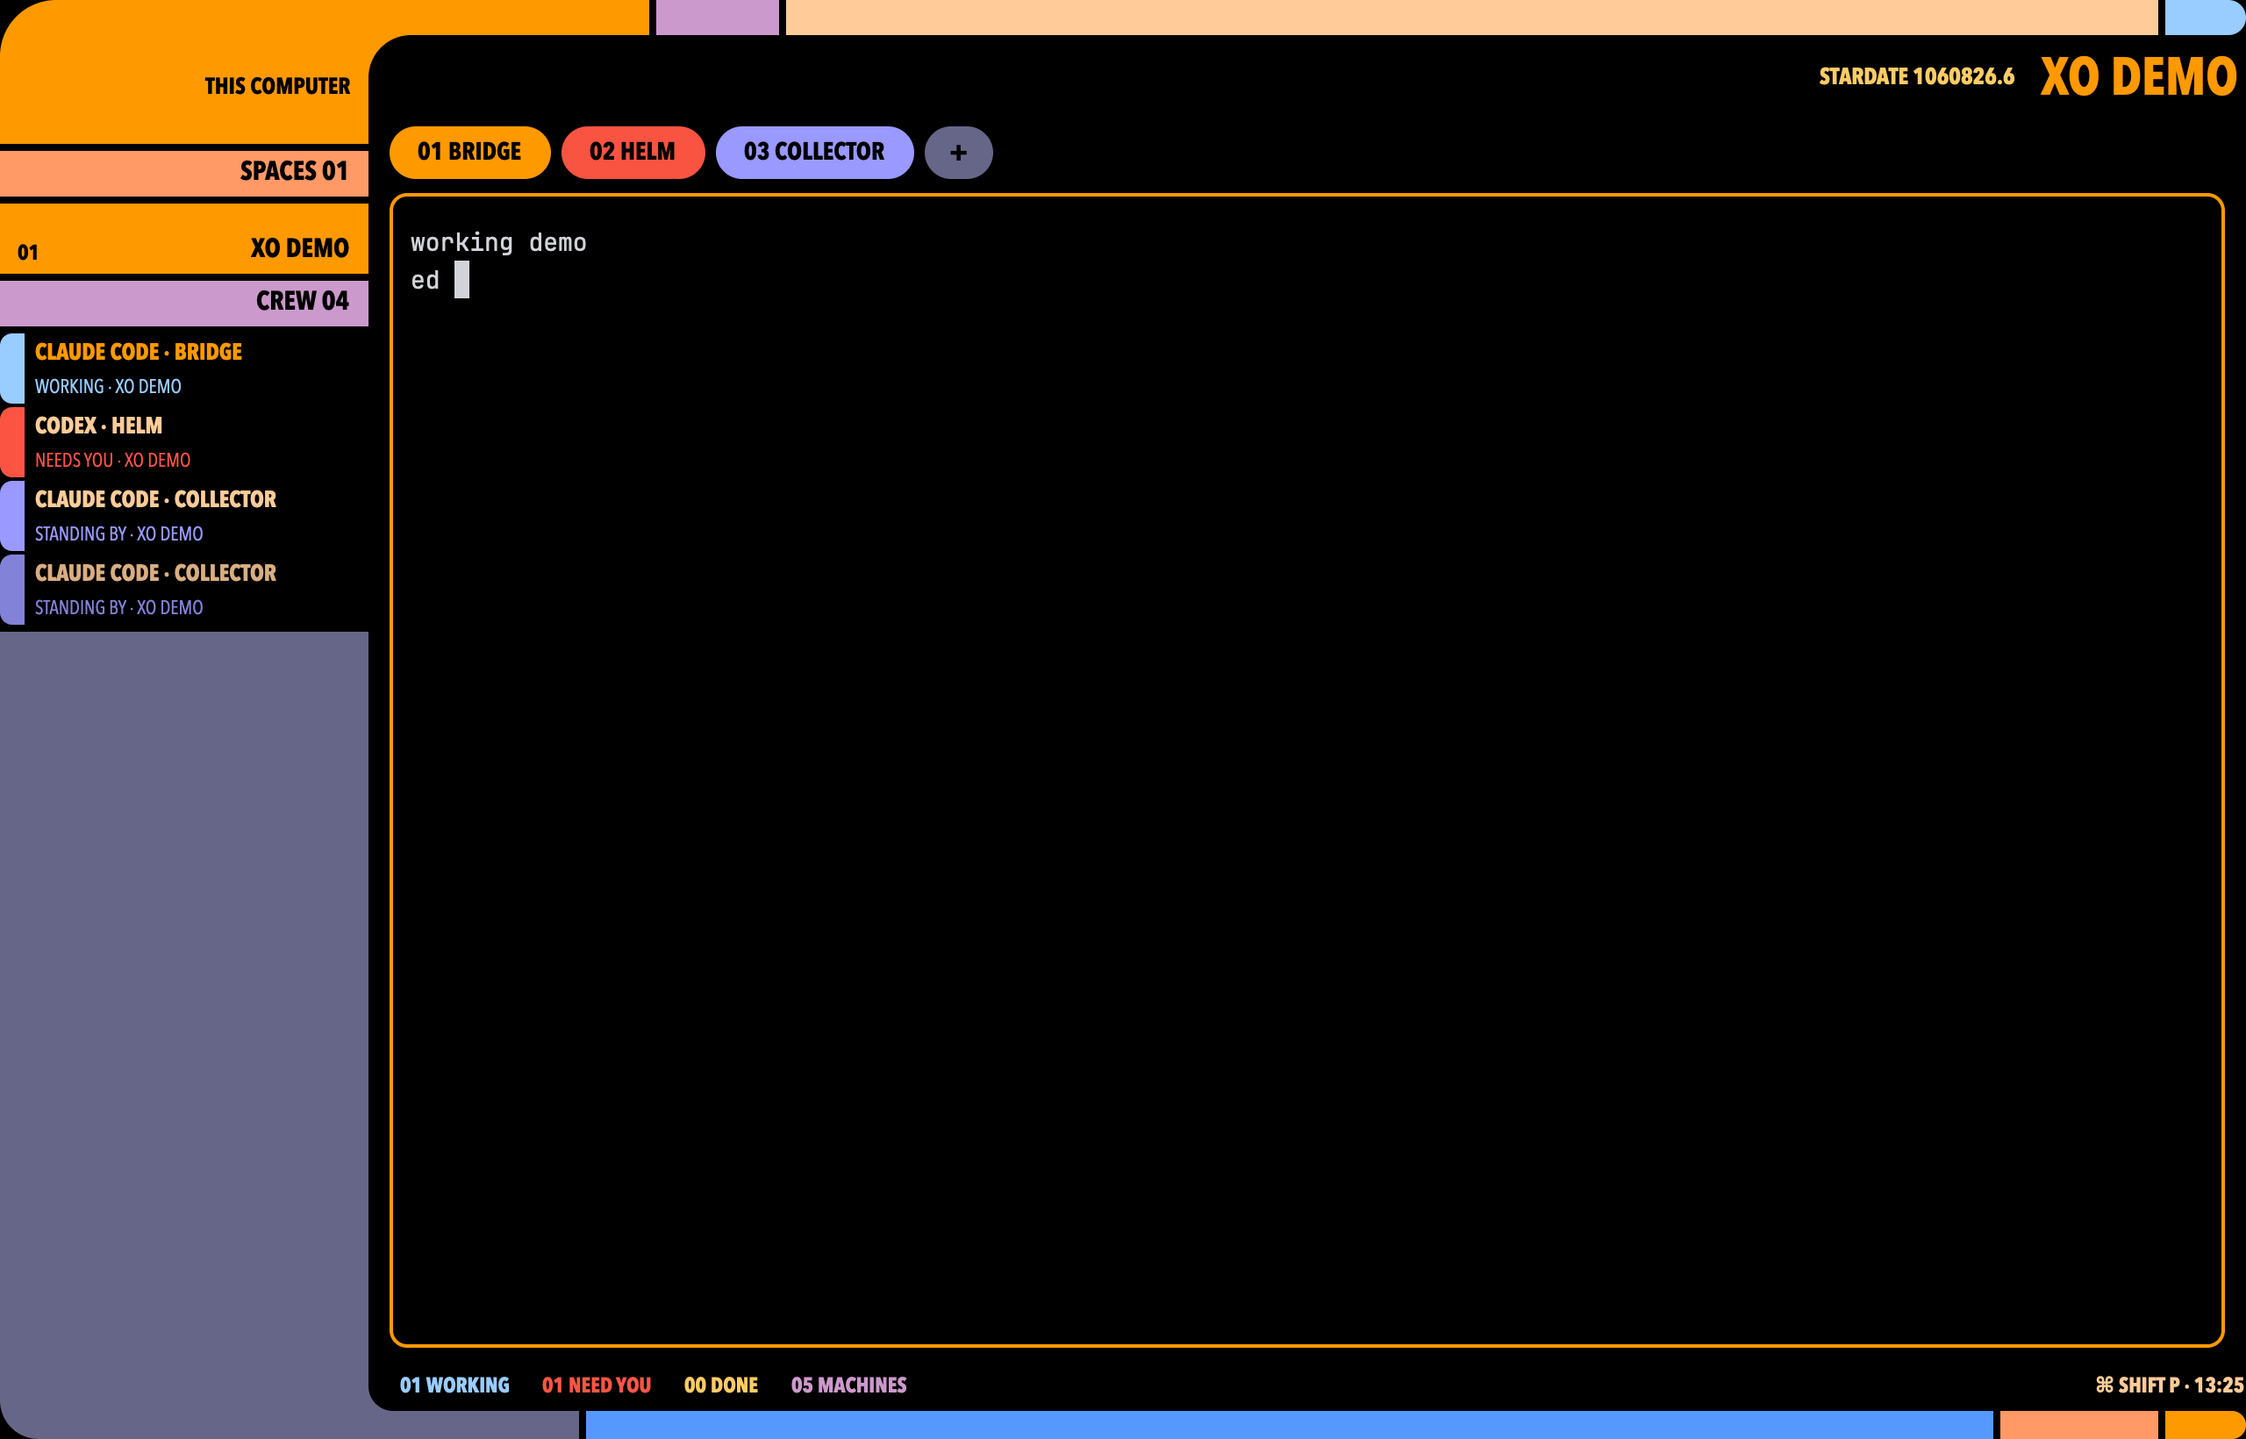
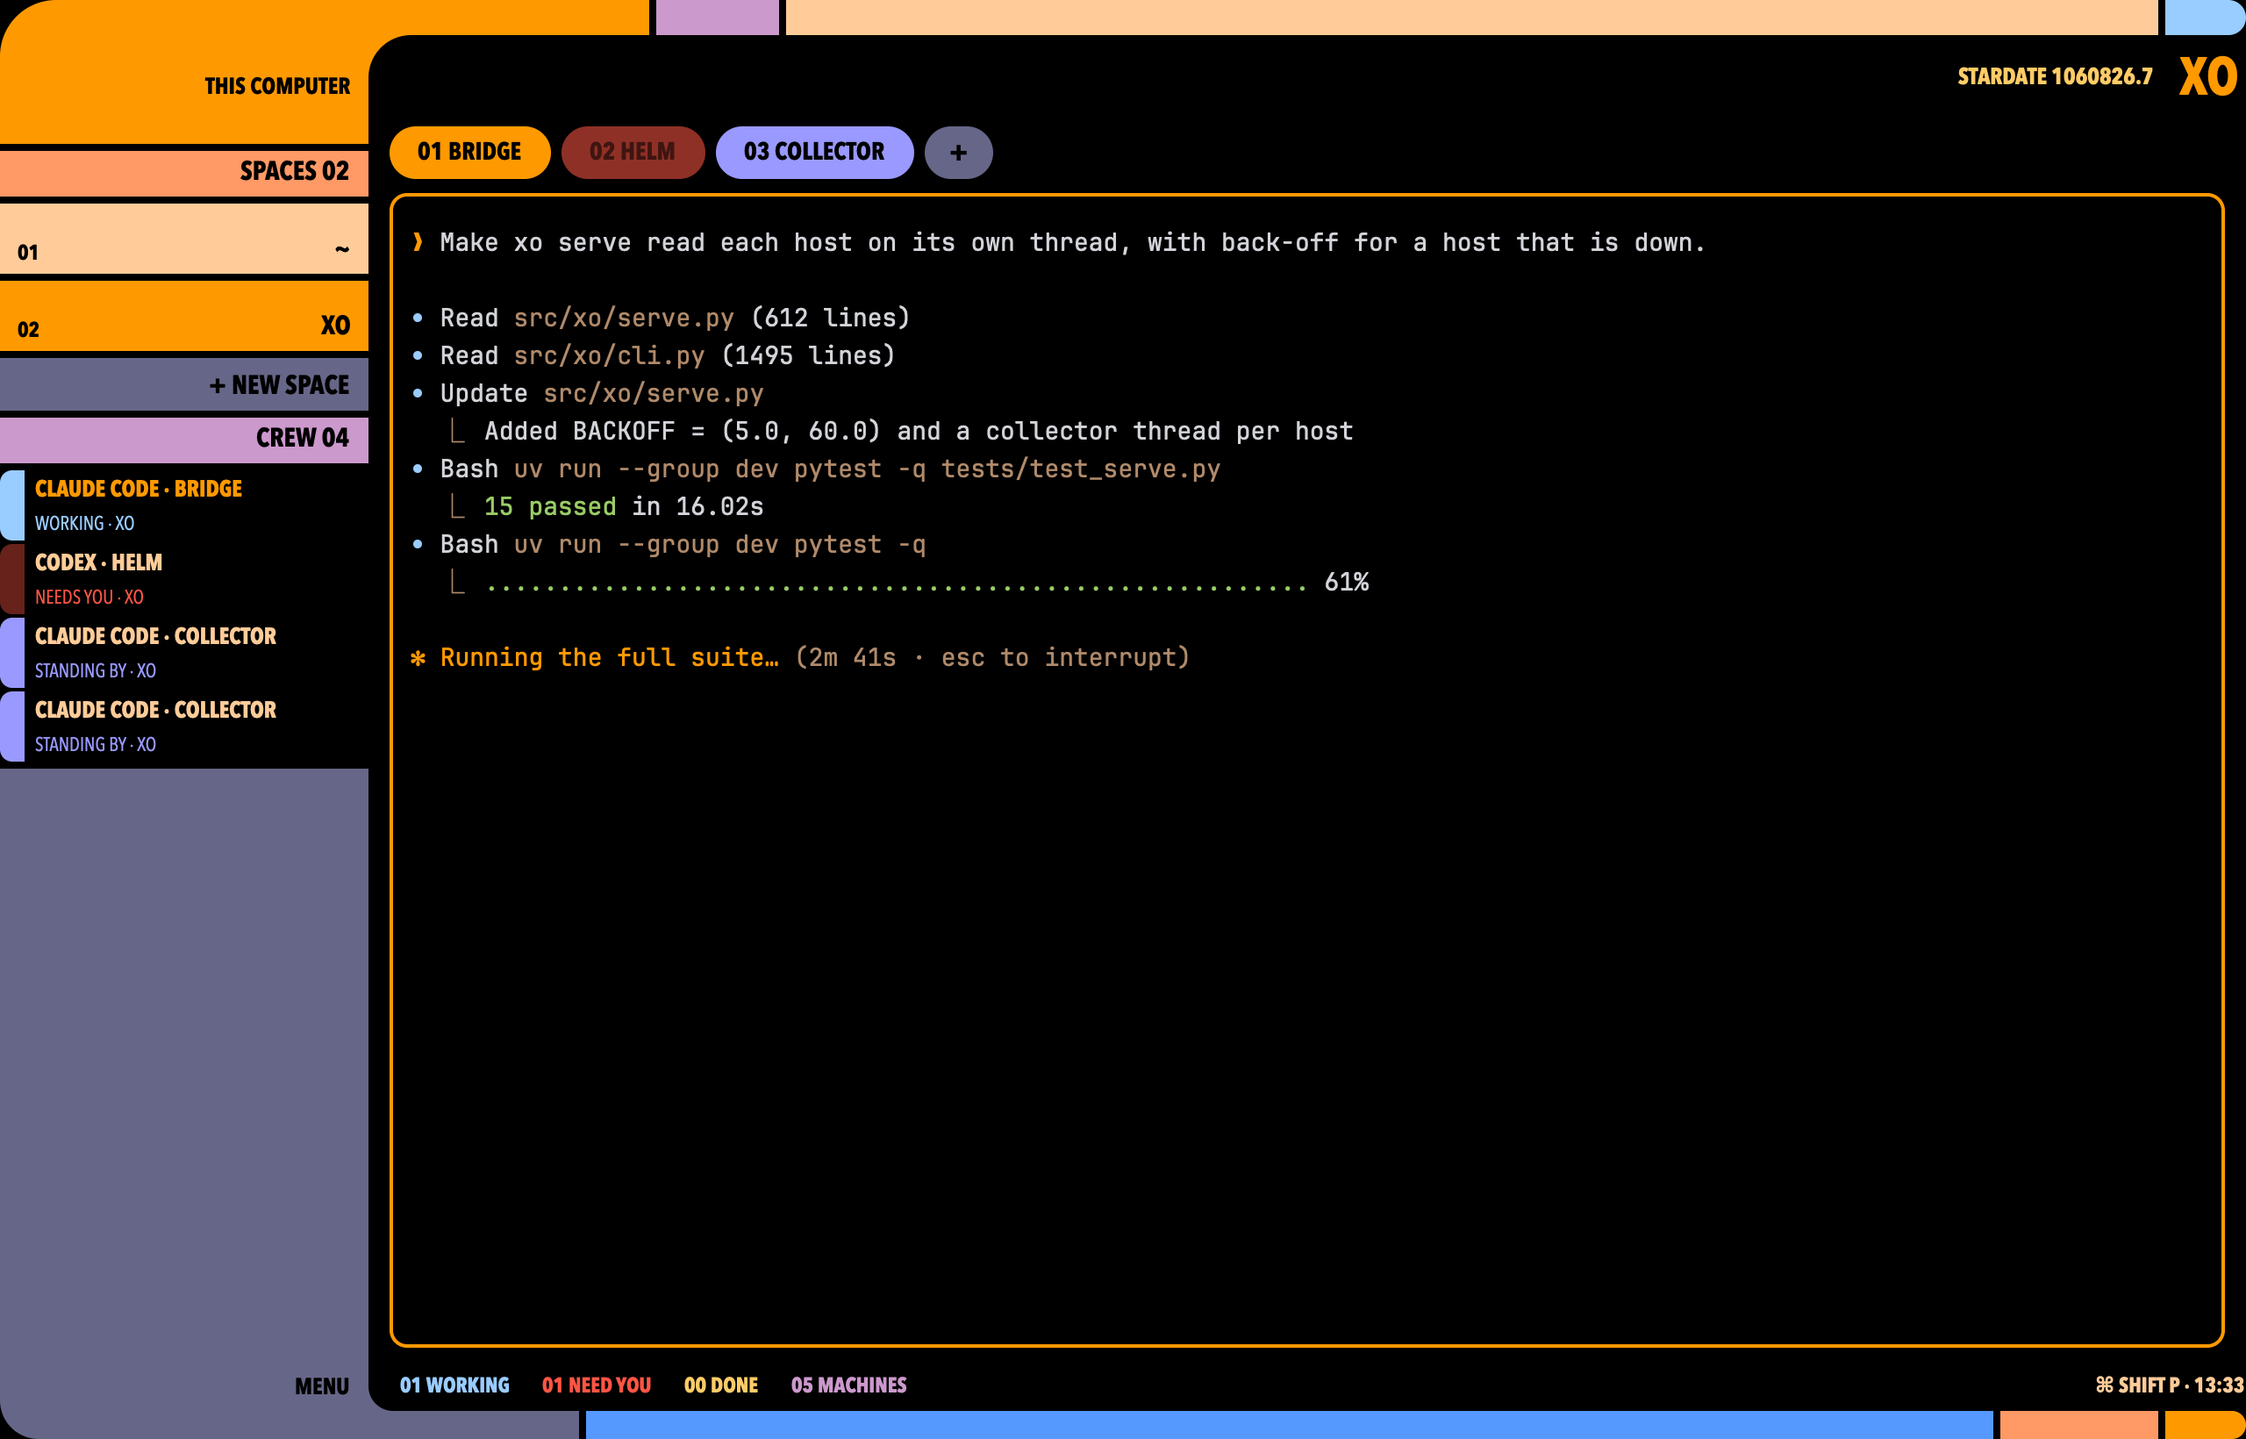
LCARS: new space button with a machine picker, Herdr's menus on right-click, MENU elbow; new preview

diff --git a/lcars/mods/lcars/main.js b/lcars/mods/lcars/main.js
@@ -1,9 +1,10 @@
 // LCARS: the frame of the lcars layout. One mod draws every part; the layout says which with props().part:
 // "top" (the upper elbow, arm and title), "side" (spaces and crew as LCARS buttons), "tabs" (the tab pills)
-// and "bottom" (the lower elbow and the status arm).
+// and "bottom" (the lower elbow and the status arm). As a popup it is "machines" (where a new space goes).
+// Right-clicks open Herdr's own menu mod, so rename, close, split and worktrees work as in its other layouts.
 import { View, div } from "gpui-kit";
 import { v_flex, h_flex } from "gpui-base";
-import { spaces, agents, machines, run, props, setAgentOrder, window } from "herdr";
+import { spaces, agents, machines, run, props, setAgentOrder, window, openOverlay, closeOverlay } from "herdr";
 
 const C = {
   black: "#000000", orange: "#ff9900", peach: "#ff9966", gold: "#ffcc66", tan: "#ffcc99", lilac: "#cc99cc",
@@ -33,6 +34,18 @@ function slab(id, color, label, h, extra) {
   return extra ? extra(el) : el;
 }
 
+// Herdr's menu mod at the pointer: tab is "space", "tab", "pane" or "global"
+const menu = (tab, target) => openOverlay({ mod: "menu", kind: "popup", width: 200, height: 260, props: { tab, target } });
+// Herdr's new menu: a terminal, each installed agent, a new space, worktrees
+const newMenu = () => openOverlay({ mod: "new-menu", kind: "popup", width: 250, height: 512 });
+// where a new space goes, when there is more than this computer
+function newSpace() {
+  const away = machines().filter((m) => m.name);
+  if (!away.length) return run("space.new", {});
+  openOverlay({ mod: "lcars", kind: "popup", width: 230, height: 60 + 44 * (away.length + 1),
+    frame: "none", props: { part: "machines" } });
+}
+
 export default class Lcars extends View {
   init(_props, cx) {
     this.now = Date.now();
@@ -45,7 +58,23 @@ export default class Lcars extends View {
     if (part === "side") return this.side();
     if (part === "tabs") return this.tabs();
     if (part === "bottom") return this.bottom();
+    if (part === "machines") return this.machines();
     return div().child(`lcars: unknown part ${part}`);
+  }
+
+  machines() {
+    const close = () => closeOverlay(props()?.overlay);
+    const all = [{ name: null, layout: "ready" }, ...machines().filter((m) => m.name)];
+    const row = (m, i) => {
+      const ready = m.layout === "ready";
+      return slab(`new-space-${m.name ?? "local"}`, ready ? SPACE_COLORS[i % SPACE_COLORS.length] : C.gray,
+        `${m.name ?? "this computer"}${ready ? "" : " · " + m.layout}`, 40, (el) => el
+          .when(ready, (el) => el.cursor_pointer().hover((st) => st.opacity(0.85))
+            .on_click(() => { close(); run("space.new", m.name ? { machine: m.name } : {}); })));
+    };
+    return v_flex().size_full().bg(C.black).rounded(14).p(6).gap(GAP)
+      .child(slab("new-space-title", C.orange, "new space on", 30, (el) => el.rounded_tl(12).rounded_tr(12)))
+      .children(all.map(row));
   }
 
   top() {
@@ -79,12 +108,14 @@ export default class Lcars extends View {
         .hover((st) => st.opacity(0.85))
         .when(s.status === "blocked" && !s.active, (el) => el.loop("opacity", { from: 0.55, to: 1, period: 900 }))
         .on_click(() => run("space.select", { id: s.id }))
+        .on_mouse_down("right", () => menu("space", { id: s.id }))
         .child(div().text_size(12).child(`${two(s.index)}${s.machine ? "-" + up(s.machine) : ""}`))
         .child(div().text_size(15).truncate().child(up(s.name)));
     };
     const member = (a) => h_flex().id(`agent-${a.address}`).w_full().h(40).flex_none().gap(6).items_center()
       .cursor_pointer().hover((st) => st.opacity(0.85))
       .on_click(() => run("agent.focus", { terminal: a.address }))
+      .on_mouse_down("right", () => menu("pane", { pane: a.pane, terminal: a.address }))
       .child(div().w(14).h_full().bg(STATUS[a.status] ?? C.gray).rounded_l(15)
         .when(a.status === "blocked", (el) => el.loop("opacity", { from: 0.4, to: 1, period: 700 })))
       .child(v_flex().flex_1().min_w(0)
@@ -96,6 +127,8 @@ export default class Lcars extends View {
       .child(div().w_full().h(18).flex_none().bg(C.orange)) // carries the top elbow down
       .child(slab("spaces-label", C.peach, `spaces ${two(list.length)}`, 26))
       .children(list.map(space))
+      .child(slab("space-new", C.gray, "+ new space", 30, (el) => el.cursor_pointer()
+        .hover((st) => st.bg(C.violet)).on_click(() => newSpace())))
       .child(slab("crew-label", C.lilac, `crew ${two(crew.length)}`, 26))
       .child(v_flex().id("crew").w_full().flex_none().gap(2).pr(4).children(crew.map(member)))
       .child(div().w_full().flex_1().min_h(10).bg(C.gray)); // runs into the bottom elbow
@@ -110,13 +143,14 @@ export default class Lcars extends View {
         .hover((st) => st.opacity(0.85))
         .when(t.status === "blocked" && !t.active, (el) => el.loop("opacity", { from: 0.5, to: 1, period: 800 }))
         .on_click(() => run("tab.select", { id: t.id }))
+        .on_mouse_down("right", () => menu("tab", { id: t.id, space: space.id }))
         .child(`${two(t.index)} ${up(t.name)}`);
     };
     return h_flex().size_full().gap(GAP + 2).items_center().overflow_x_scrollbar()
       .children((space?.tabs ?? []).filter((t) => !t.settled).map(pill))
       .child(h_flex().id("tab-new").h_full().flex_none().px(14).rounded(15).bg(C.gray).items_center()
         .text_color(C.black).text_size(16).font_weight(700).cursor_pointer().hover((st) => st.bg(C.violet))
-        .on_click(() => run("tab.new", {})).child("+"));
+        .on_click(() => newMenu()).child("+"));
   }
 
   bottom() {
@@ -124,7 +158,9 @@ export default class Lcars extends View {
     const count = (s) => crew.filter((a) => a.status === s).length;
     const away = machines().filter((m) => m.name).length;
     const clock = new Date(this.now).toTimeString().slice(0, 5);
-    const elbow = div().w(SIDE).h_full().flex_none().bg(C.gray).rounded_bl(40);
+    const elbow = div().id("menu").w(SIDE).h_full().flex_none().bg(C.gray).rounded_bl(40)
+      .flex().items_start().justify_end().px(10).pt(4).text_color(C.black).text_size(13).font_weight(700)
+      .cursor_pointer().hover((st) => st.bg(C.violet)).on_click(() => menu("global", {})).child("MENU");
     const status = div().w_full().flex_1().bg(C.gray).child(
       h_flex().size_full().bg(C.black).rounded_bl(22).items_center().gap(18).pl(18).text_size(12).font_weight(700)
         .child(div().text_color(C.blue).child(`${two(count("working"))} WORKING`))

diff --git a/lcars/RECIPE.md b/lcars/RECIPE.md
@@ -1,6 +1,6 @@
 # LCARS
 
-A Star Trek LCARS frame around your terminals. A black window has an orange elbow in the top-left corner that runs down into a sidebar of flat colour slabs: your spaces as big buttons, then a "crew" list of every agent with a status strip. A coloured arm runs across the top under the space name, which is set in large orange capitals next to a stardate. Tabs are round pills coloured by what their agent is doing. Terminals sit in thin rounded frames, and the focused one is ringed in orange. A grey elbow closes the bottom-left corner, and its arm carries a count of agents working, needing you and done, plus the clock. An agent that needs you blinks red in the sidebar and on its tab.
+A Star Trek LCARS frame around your terminals. A black window has an orange elbow in the top-left corner that runs down into a sidebar of flat colour slabs: your spaces as big buttons, then a "crew" list of every agent with a status strip. A grey `+ NEW SPACE` slab under the spaces asks which machine to put it on. A coloured arm runs across the top under the space name, which is set in large orange capitals next to a stardate. Tabs are round pills coloured by what their agent is doing. Terminals sit in thin rounded frames, and the focused one is ringed in orange. A grey elbow closes the bottom-left corner, and its arm carries a count of agents working, needing you and done, plus the clock. An agent that needs you blinks red in the sidebar and on its tab.
 
 ![LCARS](preview.png)
 
@@ -16,6 +16,7 @@ The whole window is black (`#000000`). All labels are bold (weight 700) capitals
    - An 18px orange slab that carries the elbow down.
    - A 26px peach (`#ff9966`) label slab, `SPACES nn`.
    - One 40px slab per space. The label sits bottom-right in 15px black, with the index and machine (`01`, `02-SPARK1`) at the left in 12px. The shown space is orange. A space whose agent needs you is red (`#ff5544`). The others cycle tan, lilac, peach, blue, violet (`#9999ff`).
+   - A 30px grey slab, `+ NEW SPACE`, which turns violet on hover.
    - A 26px lilac label slab, `CREW nn`.
    - One 40px row per agent:
      - A 14px status strip at the left, rounded on its left side.
@@ -25,7 +26,7 @@ The whole window is black (`#000000`). All labels are bold (weight 700) capitals
    - **Tab row, 30px.** Each tab not put away (settled) is a pill with a 15px radius and 16px side padding. Its label is `nn NAME` in 14px black. Then comes a grey `+` pill that turns violet on hover.
    - **Panes.** The active tab's panes have an 8px gap and a 10px radius on a black background. Each pane has a 2px grey border, orange when focused. A lone pane keeps its frame.
 4. **Bottom bar, 44px tall, full width.**
-   - Left: a 210px grey elbow with a 40px rounded bottom-left corner.
+   - Left: a 210px grey elbow with a 40px rounded bottom-left corner, labelled `MENU` top-right in 13px black. It turns violet on hover.
    - Right of it, a black area with a 22px rounded bottom-left corner cut into the grey. It holds 12px counts, from the left: `nn WORKING` in blue, `nn NEED YOU` in red (grey when 0), `nn DONE` in gold and `nn MACHINES` in lilac. At the far right sits `⌘ SHIFT P · HH:MM` in tan (`CTRL SHIFT P` off macOS).
    - Under that, a 16px arm made of grey 120px, sky (`#5599ff`) filling the rest, peach 90px, and orange 46px with rounded right ends (8px).
 
@@ -54,8 +55,16 @@ Each agent status shows the same colour in the crew strip, the tab pill and the 
 - A space slab: `space.select {id}`.
 - A crew row: `agent.focus {terminal}`.
 - A tab pill: `tab.select {id}`.
-- `+`: `tab.new`.
+- `+ NEW SPACE`: with no other machines, `space.new` here. With machines added (`hc machine add`), a popup of LCARS slabs, `NEW SPACE ON` then `THIS COMPUTER` and one per machine. Picking one runs `space.new {machine}`. A machine that isn't ready shows grey with its state and can't be picked.
+- `+` after the tabs: Herdr's new menu (terminal, each installed agent, new space, new worktree, open worktree).
+- `MENU`: Herdr's global menu (new space, keybinds, themes).
 - `⌘ SHIFT P`: `app.palette`.
+
+**Right-clicks** open Herdr's own menu at the pointer:
+- A space slab: rename, new worktree, open worktree, close.
+- A tab pill: rename, new tab, close.
+- A crew row: that agent's pane menu (split right or down, zoom, right-clicks to the program, close).
+- A terminal: Herdr's usual terminal menu.
 
 **Hovers:** every clickable dims to opacity 0.85. The `+` pill turns violet.
 
@@ -70,8 +79,9 @@ Each agent status shows the same colour in the crew strip, the tab pill and the 
     - `work`: a column with padding `[8, 12]` and gap 8. It holds `tabs`, a block of `{ "px": 30 }`, and `main`, a block with `"tab": "active"` and the pane frame (gap 8, radius 10, border `#666688` 2px, focus `#ff9900` 2px, `lone: true`).
   - `bottom`: a block, `{ "px": 44 }`.
 - **One mod, `mods/lcars`** (`{ "place": "none" }`), used by all four blocks. `props().part` picks what it draws: `"top"`, `"side"`, `"tabs"` or `"bottom"`. Its code is one `View` class with a renderer per part. It uses `gpui-kit` `div` and `gpui-base` `h_flex` / `v_flex`.
-- **`herdr` functions:** `spaces()`, `agents()`, `machines()`, `window()` (only its `platform`), `props()`, `run()` and `setAgentOrder()`. It runs no programs and makes no network or file reads.
-- **Shipped mods:** none. It replaces the tab bar, the sidebar and the status bar.
+- **The machine picker** is the same mod opened as a popup (`openOverlay {mod: "lcars", kind: "popup", frame: "none", props: {part: "machines"}}`), sized 230px wide and 60 + 44 per machine tall. It closes itself with `closeOverlay(props().overlay)` before running `space.new`.
+- **`herdr` functions:** `spaces()`, `agents()`, `machines()`, `window()` (only its `platform`), `props()`, `run()`, `setAgentOrder()`, `openOverlay()` and `closeOverlay()`. It runs no programs and makes no network or file reads.
+- **Shipped mods:** `menu` (right-click menus, opened with `props {tab: "space" | "tab" | "pane" | "global", target}`) and `new-menu` (the `+` popup). It replaces the tab bar, the sidebar and the status bar.
 - **Art:** none. Every shape is a coloured `div` with per-corner radii (`rounded_tl`, `rounded_bl`, `rounded_tr`, `rounded_br`, `rounded_l`).
 
 ## Watch out
@@ -83,7 +93,8 @@ Each agent status shows the same colour in the crew strip, the tab pill and the 
 - **Avenir Next Condensed ships with macOS only.** Elsewhere the text falls back to Geist and runs wider. Antonio (OFL) is the classic LCARS face. To use it, put its `.ttf` files in `mods/lcars/fonts/` and set `ui_font` to `Antonio`.
 - **The sidebar has a fixed width (210px) and doesn't scroll.** In an 820px-tall window about 14 rows fit, spaces and crew together. More are cut off. Long names are truncated.
 - **The top arm's orange, lilac and blue slabs have fixed widths** (160, 70 and 46px). Only the tan slab shrinks.
-- **No right-click menus** on spaces, tabs or crew rows. There is no rename, close or settle from this layout: use the palette or keys.
+- **Menus are Herdr's, not LCARS-styled.** They keep the app's own look, so rename, close, split and worktrees behave exactly as in Herdr's layouts.
+- **A hidden window doesn't redraw.** `herdr-app shot` returns the last frame drawn, so bring the window forward before taking a screenshot.
 - **The stardate is invented:** the year minus 1920, then the fraction of the year so far.
 
 ## Done when
@@ -92,4 +103,6 @@ Each agent status shows the same colour in the crew strip, the tab pill and the 
 2. `layout.switch {name: "lcars"}` shows the frame, and `herdr-app status` lists no errors.
 3. A terminal that sends `OSC 7501 state=blocked` turns its crew strip and tab red and pulsing, and raises the `NEED YOU` count.
 4. Clicking a crew row focuses that terminal. Clicking a space slab switches to that space, and the big title changes to its name.
-5. `+` opens a new tab, which appears as a new pill.
+5. `+` after the tabs opens Herdr's new menu. Picking Terminal adds a pill.
+6. `+ NEW SPACE` opens the machine picker when machines are added. Picking `THIS COMPUTER` adds a space slab and shows it.
+7. `MENU` opens the global menu. Right-clicking a space, tab or crew row opens its menu.
